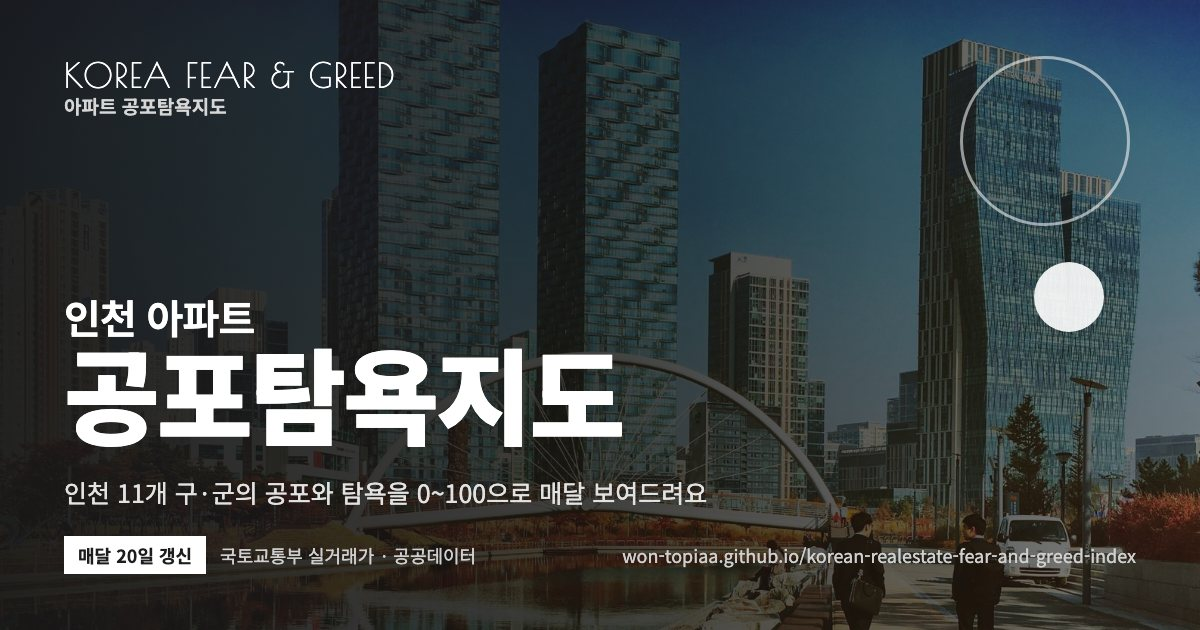
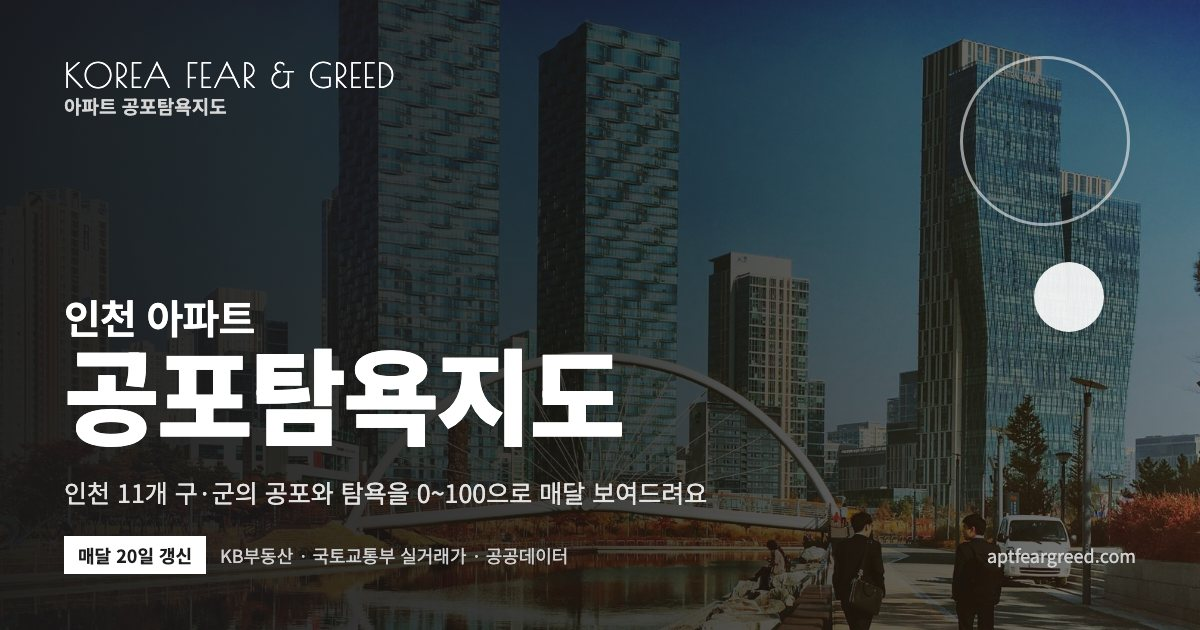
사이트 주소를 aptfeargreed.com으로
- Cloudflare에서 등록한 aptfeargreed.com을 GitHub Pages Custom domain으로 연결 (DNS only: A·AAAA 4개씩 + www CNAME, HTTPS 강제)
- site_build·api_build SITE_URL, og_build SITE를 새 주소로. 옛 github.io 주소는 GitHub이 새 주소로 넘겨 줌
- 미리보기 이미지 다시 그림: 새 주소, 지수 페이지는 원자료에 KB부동산을 함께 적음 (실거래만 쓰는 단지 검색·신고가·모의 투자는 그대로)
- README: 사이트·API 주소, 도메인 연결 방법, SK브로드밴드 DNS 확인(.com.co는 조회 안 됨)

Changed region(s): [[0.5242, 0.8746, 0.9558, 0.9048], [0.185, 0.8444, 0.4933, 0.9048]]

diff --git a/og_build.py b/og_build.py
@@ -16,7 +16,7 @@ from regions import REGIONS, sub_word
 ROOT = Path(__file__).parent
 OUT = ROOT / "assets" / "og"
 CHROME = os.environ.get("CHROME", "/Applications/Google Chrome.app/Contents/MacOS/Google Chrome")
-SITE = "won-topiaa.github.io/korean-realestate-fear-and-greed-index"
+SITE = "aptfeargreed.com"
 
 # 페이지: (사진, 사진 세로 위치, 윗줄, 큰 제목, 설명). 지역 페이지(regions.REGIONS)는 아래에서 지역 사진으로 덧붙인다 (사진이 없으면 서울 사진)
 PAGES = {
@@ -27,6 +27,7 @@ PAGES = {
     "sim": ("bg-sim", "38%", "그때 샀다면 지금 얼마?", "모의 투자", "실거래로 계산하는 가상 투자 · 단지 2~3개 같은 기간 비교"),
     "report": ("bg-report", "50%", "서울 공포탐욕지수", "백테스트", "실거래 141만 건으로 검증한 지수의 정확도와 한계"),
 }
+TRADE_ONLY = {"apt", "highs", "sim"}  # 실거래만 쓰는 페이지. 지수 페이지는 원자료 출처에 KB부동산을 함께 적는다 (KB 담당자 답변, 2026-10-23)
 for _rid, _d in REGIONS.items():
     _img = f"bg-{_rid}" if (ROOT / "assets" / "img" / f"bg-{_rid}.jpg").exists() else "bg-map"
     _sw = sub_word(_rid)
@@ -57,7 +58,7 @@ html, body {{ width: 1200px; height: 630px; overflow: hidden; background: #14141
   <div class="logo"><span class="en">KOREA FEAR &amp; GREED</span><span class="ko">아파트 공포탐욕지도</span></div>
   <div class="h"><span class="a">{a}</span><span class="b">{b}</span></div>
   <p class="d">{d}</p>
-  <div class="foot"><span class="tag">매달 20일 갱신</span><span>국토교통부 실거래가 · 공공데이터</span><span style="margin-left:auto">{site}</span></div>
+  <div class="foot"><span class="tag">매달 20일 갱신</span><span>{src}</span><span style="margin-left:auto">{site}</span></div>
 </div></div></body></html>"""
 
 
@@ -69,7 +70,8 @@ def main(only=None):
             if only and name not in only:
                 continue
             html = Path(tmp) / f"{name}.html"
-            html.write_text(HTML.format(img=(ROOT / "assets" / "img" / f"{img}.jpg").as_uri(), y=y, a=a, b=b, d=d, site=SITE))
+            src = "국토교통부 실거래가 · 공공데이터" if name in TRADE_ONLY else "KB부동산 · 국토교통부 실거래가 · 공공데이터"
+            html.write_text(HTML.format(img=(ROOT / "assets" / "img" / f"{img}.jpg").as_uri(), y=y, a=a, b=b, d=d, src=src, site=SITE))
             png = Path(tmp) / f"{name}.png"
             subprocess.run([CHROME, "--headless=new", "--disable-gpu", "--hide-scrollbars", "--force-device-scale-factor=1",
                             "--virtual-time-budget=8000", "--allow-file-access-from-files", "--window-size=1200,630",

diff --git a/site_build.py b/site_build.py
@@ -35,7 +35,7 @@ TAIL = "\n</body>\n</html>\n"
 FONTS = ('<link rel="stylesheet" href="https://fonts.googleapis.com/css2?family=Archivo:wdth,wght@100..125,400..900'
          '&family=Noto+Sans+KR:wght@400;500;600;700;900&family=Poiret+One&family=Work+Sans:wght@400;500;600;700&display=swap">')
 REPO = "https://github.com/won-topiaa/korean-realestate-fear-and-greed-index"
-SITE_URL = "https://won-topiaa.github.io/korean-realestate-fear-and-greed-index/"
+SITE_URL = "https://aptfeargreed.com/"  # 2026-10-23부터 (옛 github.io 주소는 GitHub이 이 주소로 넘겨 줌)
 # 링크 미리보기 (카카오톡·문자·SNS): 사이트 폴더 → (미리보기 그림 assets/og/*.jpg, 제목). 그림은 og_build.py로 만든다
 SITE_NAME = "아파트 공포탐욕지도"
 OG = {"": ("home", "아파트 공포탐욕지도 · 서울·수도권·광역시"), "seoul/": ("seoul", "서울 아파트 공포탐욕지도"),

diff --git a/api_build.py b/api_build.py
@@ -17,7 +17,7 @@ import json
 from pathlib import Path
 
 ROOT = Path(__file__).parent
-SITE_URL = "https://won-topiaa.github.io/korean-realestate-fear-and-greed-index/"
+SITE_URL = "https://aptfeargreed.com/"  # 2026-10-23부터 (옛 github.io 주소는 GitHub이 이 주소로 넘겨 줌)
 BASE = SITE_URL + "api/v1/"
 ZONE_ID = {"도심권": "dosim", "동북권": "dongbuk", "서북권": "seobuk", "서남권": "seonam", "동남권": "dongnam"}
 # 구 이름 → 법정동 시군구 코드 5자리 (apt_score.LAWD2GU와 같은 표. 무거운 계산 모듈을 사이트 빌드에 끌어오지 않으려고 따로 둠)

diff --git a/README.md b/README.md
@@ -2,18 +2,18 @@
 
 주식시장의 공포탐욕지수(CNN Fear & Greed Index)를 서울 아파트 시장에 옮긴 지수예요. 시장 심리를 0~100으로 나타내고(0 극단적 공포, 50 중립, 100 극단적 탐욕), 서울 전체·5대 권역·25개 구로 나눠 볼 수 있어요. 2026년 10월에 수도권(경기·인천)과 광역시(부산·대구·광주·대전·울산) 7곳으로 넓혔고, 7곳 모두 미리 정한 공개 기준을 넘어 공개했어요([아래](#수도권광역시-확장-2026-10-20)).
 
-**사이트 주소: https://won-topiaa.github.io/korean-realestate-fear-and-greed-index/**
+**사이트 주소: https://aptfeargreed.com/** (옛 주소 `won-topiaa.github.io/korean-realestate-fear-and-greed-index/`는 새 주소로 넘어가요)
 
 | 페이지 | 주소 | 하는 일 |
 |---|---|---|
-| 전국 지도 (첫 화면) | https://won-topiaa.github.io/korean-realestate-fear-and-greed-index/ | 대한민국 지도에서 지수가 있는 지역(점수 색)을 눌러 지역 페이지로. 공개 전인 지역은 빗금('검증 중') |
-| 서울 지도 | https://won-topiaa.github.io/korean-realestate-fear-and-greed-index/seoul/ | 지금 서울 점수와 0~100 막대, 5대 권역·25개 구 지도, 2006년부터의 추이, 서울 안 상대 강도 |
+| 전국 지도 (첫 화면) | https://aptfeargreed.com/ | 대한민국 지도에서 지수가 있는 지역(점수 색)을 눌러 지역 페이지로. 공개 전인 지역은 빗금('검증 중') |
+| 서울 지도 | https://aptfeargreed.com/seoul/ | 지금 서울 점수와 0~100 막대, 5대 권역·25개 구 지도, 2006년부터의 추이, 서울 안 상대 강도 |
 | 지역 지도 | …/busan/ 처럼 지역 id | 공개 기준을 넘은 수도권·광역시만. 서울 지도와 같은 화면(시군구 지도·게이지·추이) |
-| 단지 검색 | https://won-topiaa.github.io/korean-realestate-fear-and-greed-index/apt/ | 단지의 최근 실거래가가 최근 거래 중 비싼 편인지 싼 편인지(0~100), 세대수·용적률 등 단지 정보 |
-| 신고가 단지 | https://won-topiaa.github.io/korean-realestate-fear-and-greed-index/highs/ | 이번 달 같은 단지·같은 평형의 역대 최고가를 넘은 거래, 구·시군별 비중 |
-| 모의 투자 | https://won-topiaa.github.io/korean-realestate-fear-and-greed-index/sim/ | 그때 샀다면 지금 얼마? 실거래로 계산하는 가상 투자, 단지 2~3개 비교 |
-| 백테스트 보고서 | https://won-topiaa.github.io/korean-realestate-fear-and-greed-index/report/ | 지수를 실거래 141만 건으로 검증한 정확도와 한계 |
-| 데이터 API | https://won-topiaa.github.io/korean-realestate-fear-and-greed-index/api/ | 지수를 다른 서비스에서 가져다 쓰는 JSON·CSV 안내 (키 없이, 매달 20일 갱신) |
+| 단지 검색 | https://aptfeargreed.com/apt/ | 단지의 최근 실거래가가 최근 거래 중 비싼 편인지 싼 편인지(0~100), 세대수·용적률 등 단지 정보 |
+| 신고가 단지 | https://aptfeargreed.com/highs/ | 이번 달 같은 단지·같은 평형의 역대 최고가를 넘은 거래, 구·시군별 비중 |
+| 모의 투자 | https://aptfeargreed.com/sim/ | 그때 샀다면 지금 얼마? 실거래로 계산하는 가상 투자, 단지 2~3개 비교 |
+| 백테스트 보고서 | https://aptfeargreed.com/report/ | 지수를 실거래 141만 건으로 검증한 정확도와 한계 |
+| 데이터 API | https://aptfeargreed.com/api/ | 지수를 다른 서비스에서 가져다 쓰는 JSON·CSV 안내 (키 없이, 매달 20일 갱신) |
 
 단지 검색·신고가 단지·모의 투자는 서울과 수도권·광역시에서 쓸 수 있어요. 화면 위 지역 버튼으로 고르고, 주소로는 `apt/?r=busan`처럼 지역 id를 붙여요. 지금은 7개 지역 모두 열려 있어요(새 지역은 실거래를 다 받기 전까지 버튼이 흐리게 보여요). 공포탐욕지수는 공개한 지역만 함께 보여 줘요(아래 [지역별 단지 검색·신고가·모의 투자](#지역별-단지-검색신고가모의-투자-2026-10-21)).
 
@@ -155,7 +155,7 @@
 
 ### 데이터 API (`/api/`)
 - `api_build.py`: 지도와 같은 `results_zone/map_data.json`에서 직접 계산한 점수만 꺼내 정적 JSON·CSV로 만들어요(원자료 값은 넣지 않음). `site_build.py`가 사이트를 만들 때 함께 만들고, 월간 갱신 때 같이 바뀌어요.
-- 주소(앞: `https://won-topiaa.github.io/korean-realestate-fear-and-greed-index/api/v1/`):
+- 주소(앞: `https://aptfeargreed.com/api/v1/`):
   - `latest.json`: 최신 달 점수·구간·1·3·12개월 변화, 속도별 3그룹·주제 9개 점수, 구는 서울 안 상대 강도 순위
   - `history.json`, `history.csv`: 2006년 1월부터 월별 점수, 지역 31곳
   - `history/{id}.json`: 한 지역의 월별 점수. id는 `seoul`, 권역 `dosim`·`dongbuk`·`seobuk`·`seonam`·`dongnam`, 구는 시군구 코드 5자리(예: `11680` 강남구)
@@ -298,6 +298,8 @@
    - 공공데이터포털에서는 실거래가 API와 함께 **'국토교통부_건축HUB_건축물대장정보 서비스'** 활용신청이 필요해요(같은 키).
    - 브이월드 키(`VWORLD_KEY`, 오래된 단지 토지 면적)는 로컬 `.env`에만 둬요. 자동 갱신은 토지대장을 받지 않고 대장에 대지가 있는 단지의 비율만 계산해요. 새로 생긴 단지 중 대장에 대지가 빈 곳은 가끔 맥에서 `python bldg_fetch.py land`(지역은 `--regions`)로 채워 올려요.
 2. **Settings → Pages → Build and deployment → Source**를 `GitHub Actions`로 바꿔요.
+   - 주소 `aptfeargreed.com`(2026-10-23, Cloudflare에서 등록)은 Pages의 **Custom domain**으로 연결해요. Cloudflare DNS에는 GitHub Pages 주소 A 4개(185.199.108~111.153)·AAAA 4개(2606:50c0:8000~8003::153)와 `www` → `won-topiaa.github.io` CNAME을 **DNS only**(주황 구름 끔)로 둬요. 그래야 GitHub이 HTTPS 인증서를 발급해요. 사이트 안의 주소는 `site_build.py`·`api_build.py`의 `SITE_URL`, 미리보기 이미지는 `og_build.py`의 `SITE`예요.
+   - `.com.co`처럼 SK브로드밴드 DNS가 조회하지 못하는 주소가 있어서, 주소를 바꿀 때는 SK브로드밴드 DNS(210.220.163.82)에서도 조회되는지 확인해요.
 3. **Actions → 월간 자동 갱신 → Run workflow**로 한 번 실행해 봐요. 실행 목록 화면의 Run workflow를 눌러야 최신 코드로 돌아요. 예전 실행 안의 Re-run은 그때 코드로 돌아요.
 
 ## 로컬에서 돌리기
